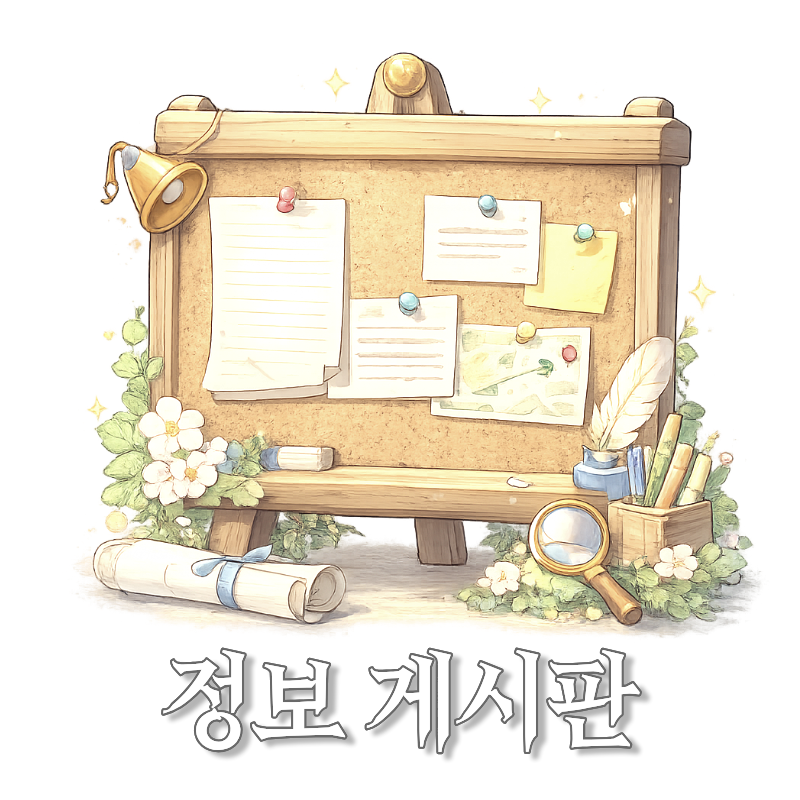
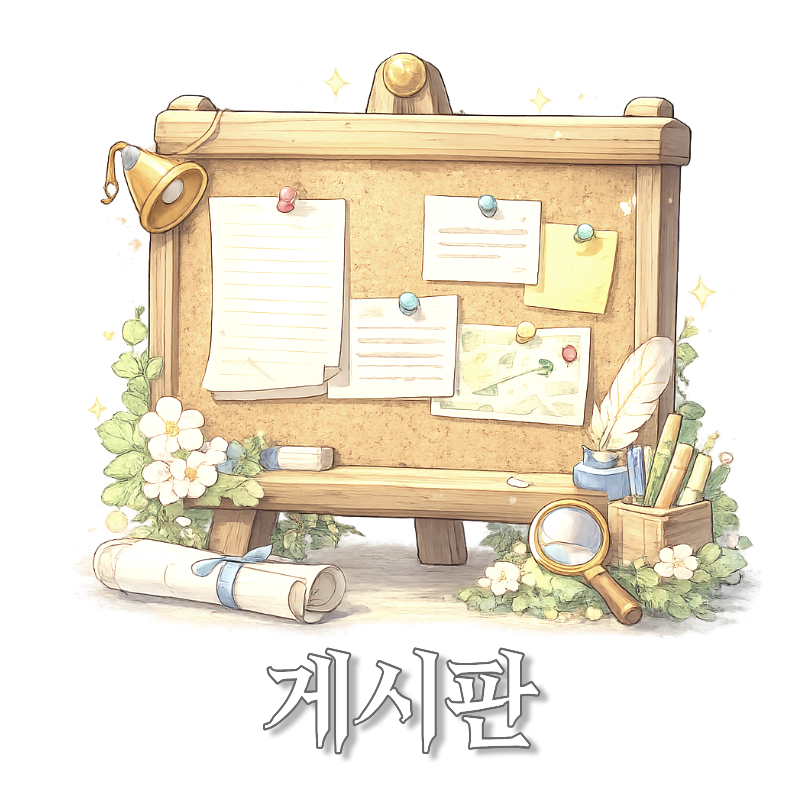
update

Changed region(s): [[0.1875, 0.8125, 0.8125, 0.9688]]

diff --git a/app/board/[id]/page.tsx b/app/board/[id]/page.tsx
@@ -173,10 +173,10 @@ export default function BoardDetailPage({
       await logActivity(
         "board_comment",
         loginNick,
-        "정보 게시판에 새 댓글이 달렸습니다",
+        "게시판에 새 댓글이 달렸습니다",
         `/board/${id}`,
       );
-      await addPoints(loginNick, "댓글", 1, "정보 게시판에 댓글 작성");
+      await addPoints(loginNick, "댓글", 1, "게시판에 댓글 작성");
     } catch {
       alert("댓글 등록에 실패했습니다.");
     }
@@ -386,10 +386,10 @@ function BoardCommentItem({
       await logActivity(
         "board_comment",
         loginNick,
-        "정보 게시판에 새 댓글이 달렸습니다",
+        "게시판에 새 댓글이 달렸습니다",
         `/board/${boardId}`,
       );
-      await addPoints(loginNick, "대댓글", 1, "정보 게시판에 대댓글 작성");
+      await addPoints(loginNick, "대댓글", 1, "게시판에 대댓글 작성");
     } catch {
       alert("대댓글 등록에 실패했습니다.");
     }

diff --git a/app/board/write/page.tsx b/app/board/write/page.tsx
@@ -96,10 +96,10 @@ export default function BoardWritePage() {
       await logActivity(
         "board",
         nickname,
-        `정보 게시판에 새 글이 등록되었습니다: ${cleanTitle}`,
+        `게시판에 새 글이 등록되었습니다: ${cleanTitle}`,
         `/board/${newRef.id}`,
       );
-      await addPoints(nickname, "게시글", 2, `정보 게시판 글 작성: ${cleanTitle}`);
+      await addPoints(nickname, "게시글", 2, `게시판 글 작성: ${cleanTitle}`);
       pending.forEach((p) => URL.revokeObjectURL(p.previewUrl));
       router.push("/board");
     } catch (e) {

diff --git a/app/board/page.tsx b/app/board/page.tsx
@@ -114,7 +114,7 @@ export default function BoardPage() {
         ← 홈으로
       </BackLink>
 
-      <h1 className="board-title">정보 게시판</h1>
+      <h1 className="board-title">게시판</h1>
 
       <div className="board-write-btn-wrap">
         <Link href="/board/write" className="board-btn">

diff --git a/app/globals.css b/app/globals.css
@@ -1411,7 +1411,7 @@ body {
   border-bottom: none;
 }
 
-/* ── Board (정보 게시판) ── */
+/* ── Board (게시판) ── */
 .board-content {
   position: relative;
   z-index: 10;
